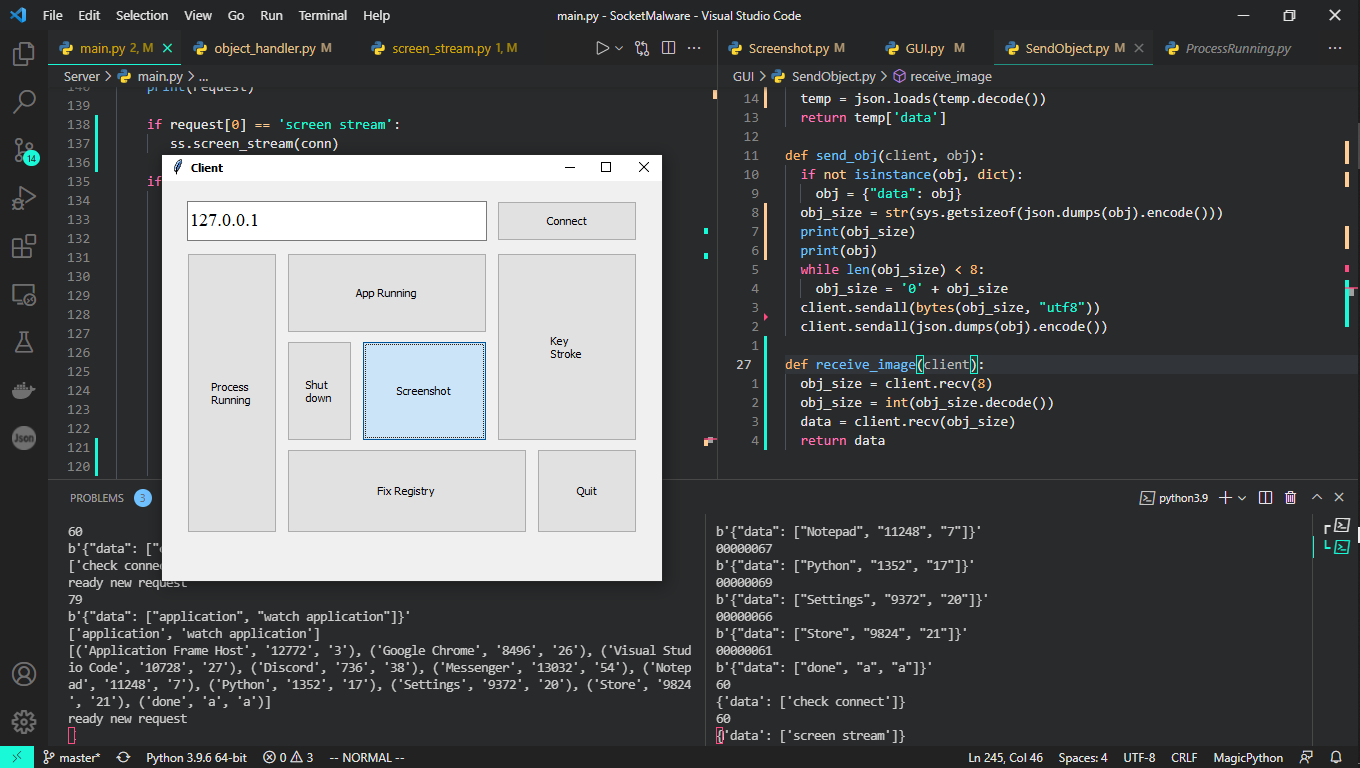
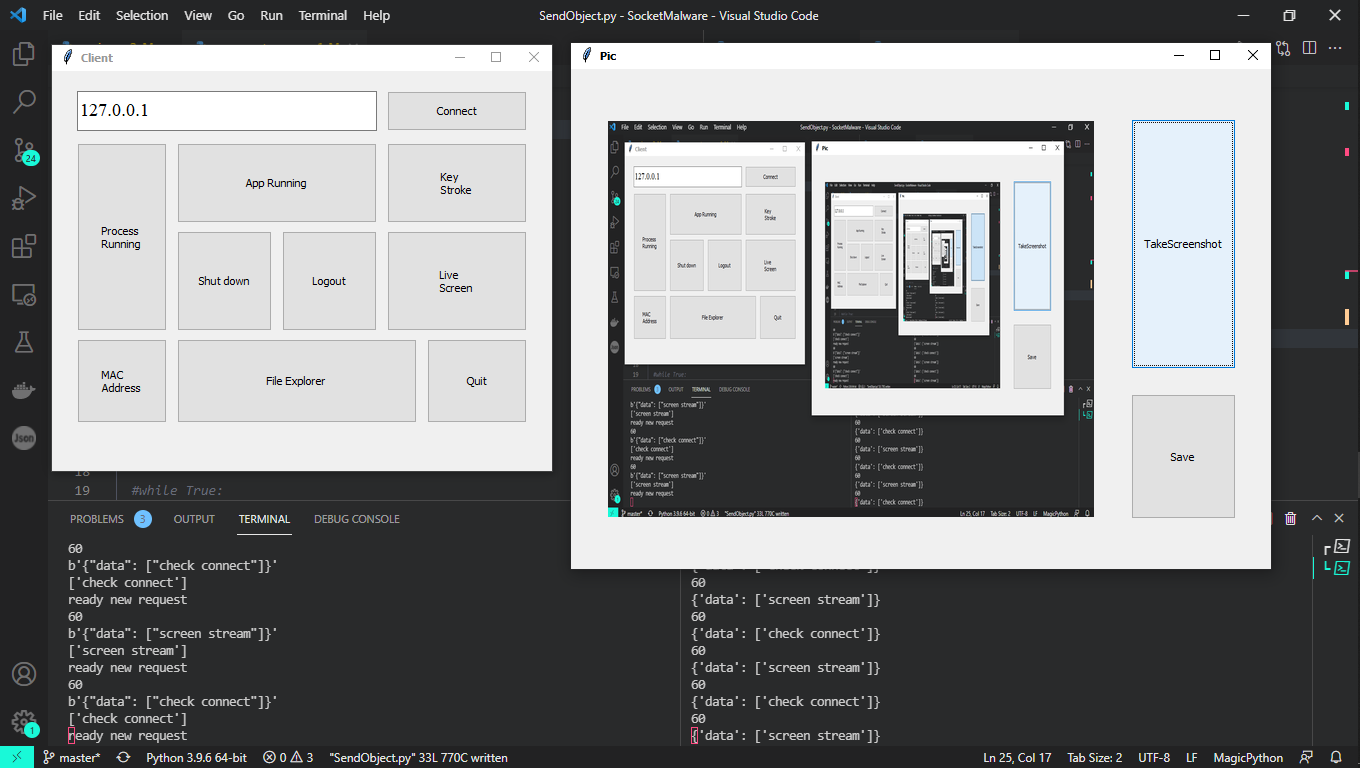
Update object handler

diff --git a/GUI/FileExplorer.py b/GUI/FileExplorer.py
@@ -12,27 +12,19 @@ pathList = ["C"]
 
 def selectItemFolder(a):
   global itemFolder, lfolder
-  print(type(lfolder))
   curItem = lfolder.focus()
   itemFolder = lfolder.item(curItem)['values'][0]
-  print(itemFolder)
   pass
 
 def selectItemFile(a):
   global itemFile, lfile
-  print(type(lfile))
   curItem = lfile.focus()
   itemFile = lfile.item(curItem)['values'][0]
-  print(itemFile)
   pass
 
 def requestPath(s, request):
   send_obj(s, request)
-  time.sleep(0.1)
-  listFolder = receive_obj(s)
-  time.sleep(0.1)
-  listFile = receive_obj(s)
-  time.sleep(0.1)
+  listFolder, listFile = receive_obj(s)
 
   lfolder.delete(*lfolder.get_children())
   for i in range(len(listFolder)):
@@ -46,7 +38,7 @@ def requestPath(s, request):
 
 def toBack(s):
   global path
-  if len(pathList): pathList.pop()
+  if len(pathList) > 1: pathList.pop()
   path.delete(0, END)
   stringPath = ''
   if len(pathList): stringPath = pathList[0] + ":\\"
@@ -64,19 +56,16 @@ def toRefresh(s):
 def toDeleteFolder(s):
   global path, itemFolder
   stringPath = path.get() + itemFolder + '\\'
-  request = ['tree folder', 'delete folder', stringPath]
+  request = ['file explorer', 'delete', stringPath]
   send_obj(s, request)
-  time.sleep(0.1)
   pass 
 
 def toCopyFile(s):
   global path, itemFile
   stringPath = path.get() + itemFile
-  request = ['tree folder', 'copy file', stringPath]
+  request = ['file explorer', 'copy', stringPath]
   send_obj(s, request)
-  time.sleep(0.1)
   response = receive_obj(s)
-  time.sleep(0.5)
   filename = filedialog.asksaveasfilename(initialdir='/', title='Save File', 
       filetypes=(('Text Files', 'txt.*'), ('All Files', '*.*')))
   
@@ -88,9 +77,8 @@ def toCopyFile(s):
 def toDeleteFile(s):
   global path, itemFile
   stringPath = path.get() + itemFile
-  request = ['tree folder', 'delete file', stringPath]
+  request = ['file explorer', 'delete', stringPath]
   send_obj(s, request)
-  time.sleep(0.1)
   pass 
 
 def openFolder(event, s):
@@ -107,12 +95,9 @@ def file_explorer(s):
   global path, itemFile, itemFolder, lfolder, lfile
 
   if check_connect(s) == False: return
-  request = ['tree folder']
+  request = ['file explorer', "C:\\"]
   send_obj(s, request)
-  time.sleep(0.1)
-  listDir = receive_obj(s)
-  time.sleep(0.1)
-  listFolder = receive_obj(s)
+  dirs, files = receive_obj(s)
 
   root = Toplevel()
   root.grab_set()
@@ -120,8 +105,10 @@ def file_explorer(s):
   root.geometry('500x500+200+100')
 
   ### folder
-  my_scrollbar1 = Scrollbar(root, orient=VERTICAL)
-  lfolder = Treeview(root, yscrollcommand=my_scrollbar1.set)
+  label1 = LabelFrame(root, text='Folder')
+  label1.place(relx=0.04, rely=0.1, relwidth=0.9, relheight=0.38)
+  my_scrollbar1 = Scrollbar(label1, orient=VERTICAL)
+  lfolder = Treeview(label1, yscrollcommand=my_scrollbar1.set)
   lfolder['columns'] = ('Folder Name', 'Create At')
   lfolder.column('#0', width=0, stretch=NO)    
   lfolder.column('Folder Name', width=200, anchor=CENTER)
@@ -130,19 +117,21 @@ def file_explorer(s):
   lfolder.heading('#0', text='', anchor=CENTER)
   lfolder.heading('Folder Name', text='Folder Name', anchor=CENTER)
   lfolder.heading('Create At', text='Create At', anchor=CENTER)
-  lfolder.place(relx=0.04, rely=0.1, relwidth=0.87, relheight=0.38)
+  lfolder.place(relx=0.02, rely=0.02, relwidth=0.92, relheight=0.96)
 
   lfolder.bind('<ButtonRelease-1>', selectItemFolder)
   lfolder.bind('<Double-1>', lambda _ : openFolder(_, s))
-  for x in range(30):
-      lfolder.insert(parent='', index=x, iid=x, text='', values=('notepad', x))
+  for x in range(len(dirs)):
+    lfolder.insert(parent='', index=x, iid=x, text='', values=dirs[x])
 
   my_scrollbar1.config(command=lfolder.yview)
-  my_scrollbar1.place(relx=0.91, rely=0.1, relwidth=0.05, relheight=0.38)
+  my_scrollbar1.place(relx=0.94, rely=0.02, relwidth=0.04, relheight=0.96)
 
   ### File
-  my_scrollbar2 = Scrollbar(root, orient=VERTICAL)
-  lfile = Treeview(root, yscrollcommand=my_scrollbar2.set)
+  label2 = LabelFrame(root, text='File')
+  label2.place(relx=0.04, rely=0.5, relwidth=0.9, relheight=0.38)
+  my_scrollbar2 = Scrollbar(label2, orient=VERTICAL)
+  lfile = Treeview(label2, yscrollcommand=my_scrollbar2.set)
   lfile['columns'] = ('File Name', 'Create At')
   lfile.column('#0', width=0, stretch=NO)    
   lfile.column('File Name', width=200, anchor=CENTER)
@@ -151,14 +140,14 @@ def file_explorer(s):
   lfile.heading('#0', text='', anchor=CENTER)
   lfile.heading('File Name', text='File Name', anchor=CENTER)
   lfile.heading('Create At', text='Create At', anchor=CENTER)
-  lfile.place(relx=0.04, rely=0.5, relwidth=0.87, relheight=0.38)
+  lfile.place(relx=0.02, rely=0.02, relwidth=0.92, relheight=0.96)
 
   lfile.bind('<ButtonRelease-1>', selectItemFile)
-  for x in range(30):
-      lfile.insert(parent='', index=x, iid=x, text='', values=('notepad', x))
+  for x in range(len(files)):
+      lfile.insert(parent='', index=x, iid=x, text='', values=files[x])
 
   my_scrollbar2.config(command=lfile.yview)
-  my_scrollbar2.place(relx=0.91, rely=0.5, relwidth=0.05, relheight=0.38)
+  my_scrollbar2.place(relx=0.94, rely=0.02, relwidth=0.04, relheight=0.96)
 
 
   Button(root, text='Back', command=lambda: toBack(s)).place(relx=0.04, rely=0.02, relwidth=0.1, relheight=0.05)

diff --git a/Server/main.py b/Server/main.py
@@ -10,6 +10,7 @@ import subprocess
 
 import Utils.object_handler as oh
 import Utils.screen_stream as ss
+import Utils.tree_folder as tf
 
 #load enviroment variables
 SERVER_HOST = '127.0.0.1'
@@ -107,12 +108,24 @@ def processRequest(request, conn):
     if request[0] == 'screen stream':
        ss.screen_stream(conn) 
 
+    if request[0] == 'file explorer':
+        if request[1] != 'delete' and request[1] != 'copy':
+            dirs, files = tf.list_files(request[1])
+            oh.send_obj(conn, [dirs, files])
+            pass
+        else:
+            if request[1] == 'delete':
+                try:
+                    subprocess.call(['rm', '-r', request[2]])
+                    print("delete sucessful", request[2])
+                except:
+                    pass
+
     if request[0] == 'process':
         if request[1] == 'watch process':
             temp = getProcessRunning()
             for it in temp:
                 oh.send_obj(conn, it)
-                time.sleep(0.001)
         if request[1] == 'kill process':
             processId = int(request[2])
             try:
@@ -127,10 +140,8 @@ def processRequest(request, conn):
     if request[0] == 'application':
         if request[1] == 'watch application':
             temp = getListRunningWindows()
-            print(temp)
             for it in temp:
                 oh.send_obj(conn, it)
-                time.sleep(0.001)
         if request[1] == 'kill application':
             processId = int(request[2])
             try:

diff --git a/GUI/SendObject.py b/GUI/SendObject.py
@@ -1,15 +1,14 @@
 import json
 import sys
+import time
 
 from numpy.lib.arraysetops import isin
 
 def receive_obj(client):
 	obj_size = client.recv(8)
 	obj_size = (obj_size.decode("utf8"))
-	print(obj_size)
 	obj_size = int(obj_size)
 	temp = client.recv(obj_size)
-	print(temp)
 	temp = json.loads(temp.decode())
 	return temp['data']
 
@@ -22,10 +21,12 @@ def send_obj(client, obj):
 	while len(obj_size) < 8:
 		obj_size = '0' + obj_size
 	client.sendall(bytes(obj_size, "utf8"))
+	time.sleep(0.001)
 	client.sendall(json.dumps(obj).encode())
 
 def receive_image(client):
 	obj_size = client.recv(8)
-	obj_size = int(obj_size.decode())
+	obj_size = int(obj_size.decode('utf8'))
+	time.sleep(0.001)
 	data = client.recv(obj_size)
 	return data

diff --git a/GUI/GUI.py b/GUI/GUI.py
@@ -51,7 +51,7 @@ Button(win, text='Logout', command=lambda: Screenshot.screenshot(
     s)).place(relx=0.46, rely=0.4, relwidth=0.19, relheight=0.25)
 Button(win, text='Key\nStroke', command=lambda: KeyStroke.key_stroke(
     s)).place(relx=0.67, rely=0.18, relwidth=0.28, relheight=0.2)
-Button(win, text='Live\nScreen', command=lambda: KeyStroke.key_stroke(
+Button(win, text='Live\nScreen', command=lambda: Screenshot.screenshot(
     s)).place(relx=0.67, rely=0.4, relwidth=0.28, relheight=0.25)
 Button(win, text='File Explorer', command=lambda: FileExplorer.file_explorer(
     s)).place(relx=0.25, rely=0.67, relwidth=0.48, relheight=0.21)

diff --git a/Server/Utils/screen_stream.py b/Server/Utils/screen_stream.py
@@ -5,13 +5,14 @@ import json
 import PIL
 import sys
 import Utils.object_handler as oh
-import base64
+import time
 
 def send_image(client, img_byte_arr):
 	img_size = str(sys.getsizeof(img_byte_arr))
 	while len(img_size) < 8:
 		img_size = '0' + img_size
 	client.sendall(bytes(img_size, 'utf8'))	
+	time.sleep(0.001)
 	client.sendall(img_byte_arr)
 
 def screen_stream(client):
@@ -33,6 +34,3 @@ def screen_stream(client):
 	#	img_byte_arr = img_byte_arr.getvalue()
 	#	client.sendall(bytes(str(sys.getsizeof(img_byte_arr)), "utf8"))
 	#	client.sendall(img_byte_arr)
-
-if __name__ == '__main__':
-	screen_stream()

diff --git a/Server/Utils/tree_folder.py b/Server/Utils/tree_folder.py
@@ -1,17 +1,15 @@
 import os 
 import glob
+import time
 
 def list_files(startpath):
 	dirs = []
 	files = []
 	for f in os.listdir(startpath):
-		if (os.path.isfile(os.path.join(startpath, f))):
-			files.append(f)
+		file_path = os.path.join(startpath, f)
+		date = time.ctime(os.path.getctime(file_path))
+		if (os.path.isfile(file_path)):
+			files.append([f, date])
 		else:
-			dirs.append(f)
+			dirs.append([f, date])
 	return dirs, files
-
-if __name__ == '__main__':
-	dirs, files = list_files("e:/")
-	print(dirs)
-	print(files)

diff --git a/Server/Utils/object_handler.py b/Server/Utils/object_handler.py
@@ -1,14 +1,12 @@
 import json
 import sys
-
+import time
 
 def receive_obj(client):
 	obj_size = client.recv(8)
 	obj_size = (obj_size.decode("utf8"))
 	obj_size = int(obj_size)
 	temp = client.recv(obj_size)
-	print(obj_size)
-	print(temp)
 	temp = json.loads(temp.decode())
 	return temp['data']
 
@@ -19,4 +17,5 @@ def send_obj(client, obj):
 	while len(obj_size) < 8:
 		obj_size = '0' + obj_size
 	client.sendall(bytes(obj_size, "utf8"))
+	time.sleep(0.01)
 	client.sendall(json.dumps(obj).encode())

diff --git a/GUI/Screenshot.py b/GUI/Screenshot.py
@@ -49,7 +49,7 @@ class MainWindow():
 
     def takeScreenshot(self):
         if check_connect(soc) == False: return
-        request = ['screenshot']
+        request = ['screen stream']
         send_obj(soc, request)
         data = receive_image(soc)
         f = open(self.pic, "wb")
